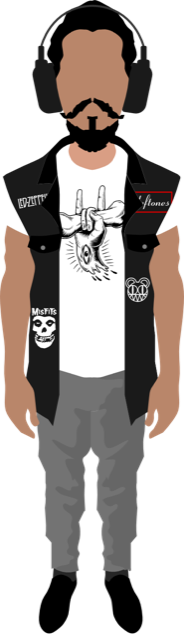
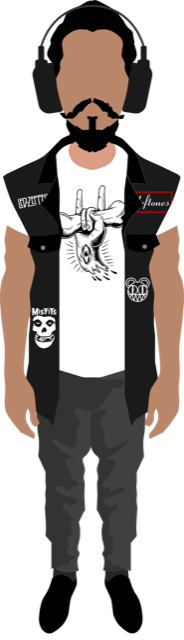
made the player change orientation when it moves, but still looks weird when its sideway...

Changed region(s): [[0.1902, 0.5625, 0.788, 0.9062]]

diff --git a/src/Player.js b/src/Player.js
@@ -2,50 +2,88 @@ class Player {
   constructor(x, y) {
     this.x = x;
     this.y = y;
-    this.width = w;
-    this.height = w;
-    this.position = "back";
-    //   this.imgs = {};
-    //   for (var position in imgDirection) {
-    //     this.imgs[position] = new Image();
-    //     this.imgs[position].src = imgDirection[position];
-    //   }
-    // }
+    this.width = SQUARE_SIDE;
+    this.height = SQUARE_SIDE;
   }
   moveUp() {
     this.y -= this.height;
     if (this.y < 0) {
       this.y = 0;
     }
-    this.position = "up";
+    collector = collectorBack;
   }
   moveDown() {
     this.y += this.height;
     if (this.y + this.height > HEIGHT) {
       this.y = HEIGHT - this.height;
     }
-    this.position = "down";
+    collector = collectorFront;
   }
   moveLeft() {
     this.x -= this.width;
     if (this.x < 0) {
       this.x = 0;
     }
-    this.position = "left";
+    collector = collectorLeft;
   }
   moveRight() {
     this.x += this.width;
     if (this.x + this.width > WIDTH) {
       this.x = WIDTH - this.width;
     }
-    this.position = "Right";
+    collector = collectorRight;
   }
 
   draw() {
-    image(collectorBack, this.x, this.y, this.width, this.height);
+    image(collector, this.x, this.y, this.width, this.height);
     //   image(collectorFront, this.x, this.y, this.width, this.height);
     //   image(collectorLeft, this.x, this.y, this.width, this.height);
     //   image(collectorRight, this.x, this.y, this.width, this.height);
     // }
   }
 }
+/* function preload() {
+  treasurePicture = loadImage("/assets/treasure.png");
+  pictureVariable = loadImage("../assets/character-down.png");
+  pictureVariableUp = loadImage("../assets/character-up.png");
+  pictureVariableRight = loadImage("../assets/character-right.png");
+  pictureVariableLeft = loadImage("../assets/character-left.png");
+  pictureVariableDown = loadImage("../assets/character-down.png");
+  
+  
+   draw() {
+        image(pictureVariable, this.x, this.y, this.width, this.height)
+    }
+  
+  moveUp(){
+        this.y -= SQUARE_SIDE;
+        pictureVariable = pictureVariableUp
+        if(this.y < 0){
+            this.y = 0;
+        }
+    }
+
+    moveLeft(){
+        this.x -= SQUARE_SIDE;
+        pictureVariable = pictureVariableLeft
+        if(this.x < 0){
+            this.x = 0;
+        }
+    }
+
+    moveRight(){
+        this.x += SQUARE_SIDE;
+        pictureVariable = pictureVariableRight
+        if(this.x + this.width > WIDTH){
+            this.x = WIDTH - this.width;
+        }
+    }
+
+    moveDown(){
+        this.y += SQUARE_SIDE;
+        pictureVariable = pictureVariableDown
+        if(this.y + this.height > HEIGHT){
+            this.y = HEIGHT - this.height;
+        }
+    }
+*/

diff --git a/src/Game.js b/src/Game.js
@@ -11,6 +11,7 @@ class Game {
     this.endGame = false;
     this.gameMusic = gameMusic;
     this.time = time;
+    this.score = 0;
   }
 
   setup() {}
@@ -66,6 +67,17 @@ class Game {
     } else if (this.level === 3 && this.vinylCounter === 16) {
       this.endGame = "win";
     } else if (this.time === 0) {
+      // const button = document.createElement("button");
+      // button.innerText = "Wanna play again?";
+      // button.style.background = "yellow";
+      // document.body.appendChild(button);
+      // button.onclick = () => {
+      //   this.startGame();
+      //   button.parentNode.removeChild(button);
+      //   this.score++;
+      //   score.innerText = this.score;
+      //   loop();
+      // };
       this.endGame = "out";
     }
 

diff --git a/src/main.js b/src/main.js
@@ -7,10 +7,11 @@ function preload() {
   for (i = 0; i < 25; i++) {
     lp[i] = loadImage(`./Vinyl/R-${i}.jpg`);
   }
+  collector = loadImage("./assest/back.png");
   collectorBack = loadImage("./assest/back.png");
-  // collectorFront = loadImage("./assest/front.png");
-  // collectorLeft = loadImage("./assest/left.png");
-  // collectorRight = loadImage("./assest/right.png");
+  collectorFront = loadImage("./assest/front.png");
+  collectorLeft = loadImage("./assest/left.png");
+  collectorRight = loadImage("./assest/right.png");
 
   gameMusic = loadSound("./music/PrettyLights-PinkFloyd-TimeRemix.mp3");
 }

diff --git a/index.html b/index.html
@@ -24,7 +24,7 @@
       <h1>Record Store Game<span></span></h1>
 
       <div>
-        <h3>Time: <span id="time">30's</span></h3>
+        <h3>Time: <span id="time">60's</span></h3>
       </div>
       <div>
         <h3>Collection: <span id="collect"> 0 </span> records!</h3>

diff --git a/src/constants.js b/src/constants.js
@@ -1,10 +1,12 @@
 const WIDTH = 650;
 const HEIGHT = 450;
 const SQUARE_SIDE = 50;
+const score = document.getElementById(".score");
 let cols, rows;
 let w = 50;
 let vinyl;
 let bgImage;
+let collector;
 let collectorFront;
 let collectorBack;
 let collectorLeft;
